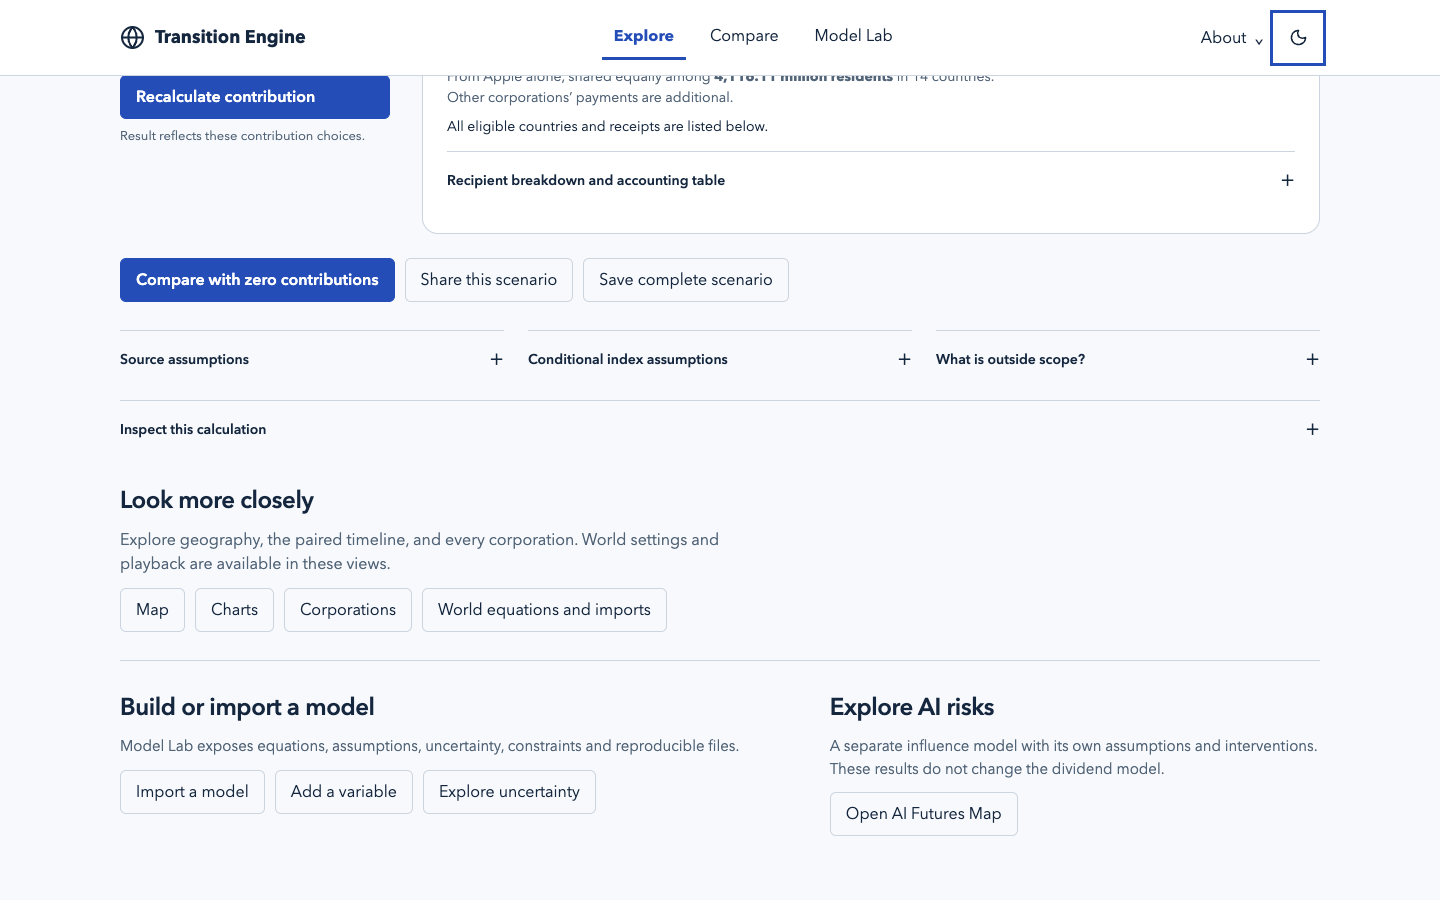
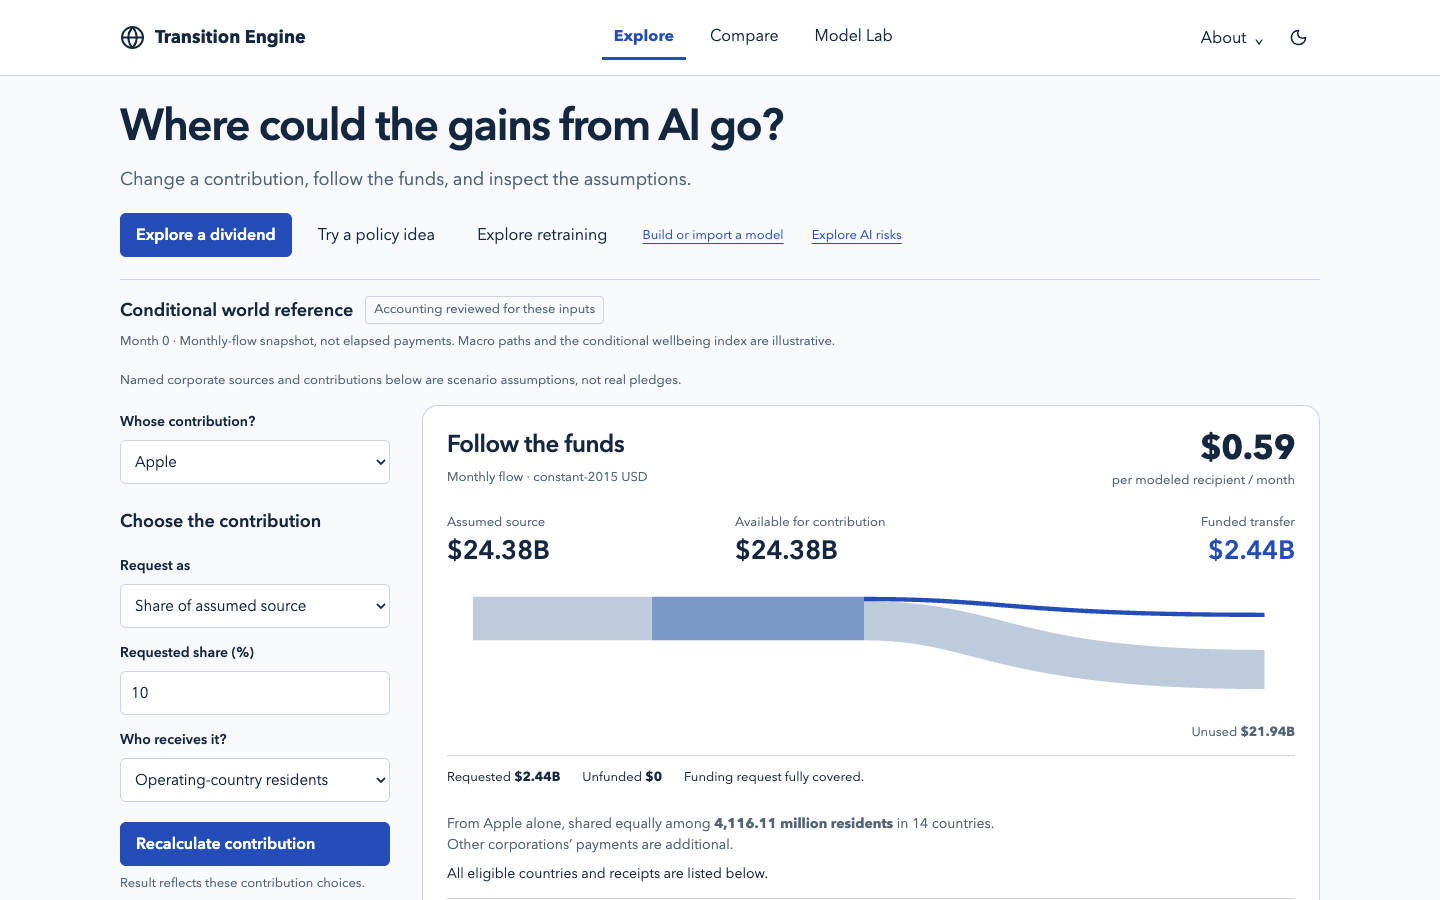
Close completed overnight comparison plan

diff --git a/docs/superpowers/plans/2026-09-15-complete-v3-stages-3-5.md b/docs/superpowers/plans/2026-09-15-complete-v3-stages-3-5.md
@@ -135,7 +135,7 @@ Task5 completion is limited to reviewed conditional source/allocation accounting
 
 **Files:** comparison artifact/report, GitHub UI draft PR, local preview services.
 
-- [ ] Publish the UI experiment branch and open a clearly scoped draft PR with verified tests. Keep it unmerged for the owner's comparison. Core fixes retain earlier merge authorization.
-- [ ] Provide actual local preview URLs for core-fixed baseline and improved interface where available; distinguish them from unchanged public deployment. Capture comparable screenshots with commits, viewport, scenario/model/data/time settings.
-- [ ] Prepare a concise morning report with before/after comparison, current main versus branch state, completed work, meaningful test evidence, remaining limitations and exact instructions Claude Code needs to continue. Preserve all changes and the working handoff in durable files.
-- [ ] Around09:00Eastern on2026-09-15, report actual status even if anything remains unfinished. Do not convert a deadline into a false completion claim. Pause the overnight heartbeat after the report/work is complete.
+- [x] Publish the UI experiment branch and open a clearly scoped draft PR with verified tests. Keep it unmerged for the owner's comparison. Core fixes retain earlier merge authorization.
+- [x] Provide actual local preview URLs for core-fixed baseline and improved interface where available; distinguish them from unchanged public deployment. Capture comparable screenshots with commits, viewport, scenario/model/data/time settings.
+- [x] Prepare a concise morning report with before/after comparison, current main versus branch state, completed work, meaningful test evidence, remaining limitations and exact instructions Claude Code needs to continue. Preserve all changes and the working handoff in durable files.
+- [x] Around09:00Eastern on2026-09-15, report actual status even if anything remains unfinished. Do not convert a deadline into a false completion claim. Pause the overnight heartbeat after the report/work is complete.
